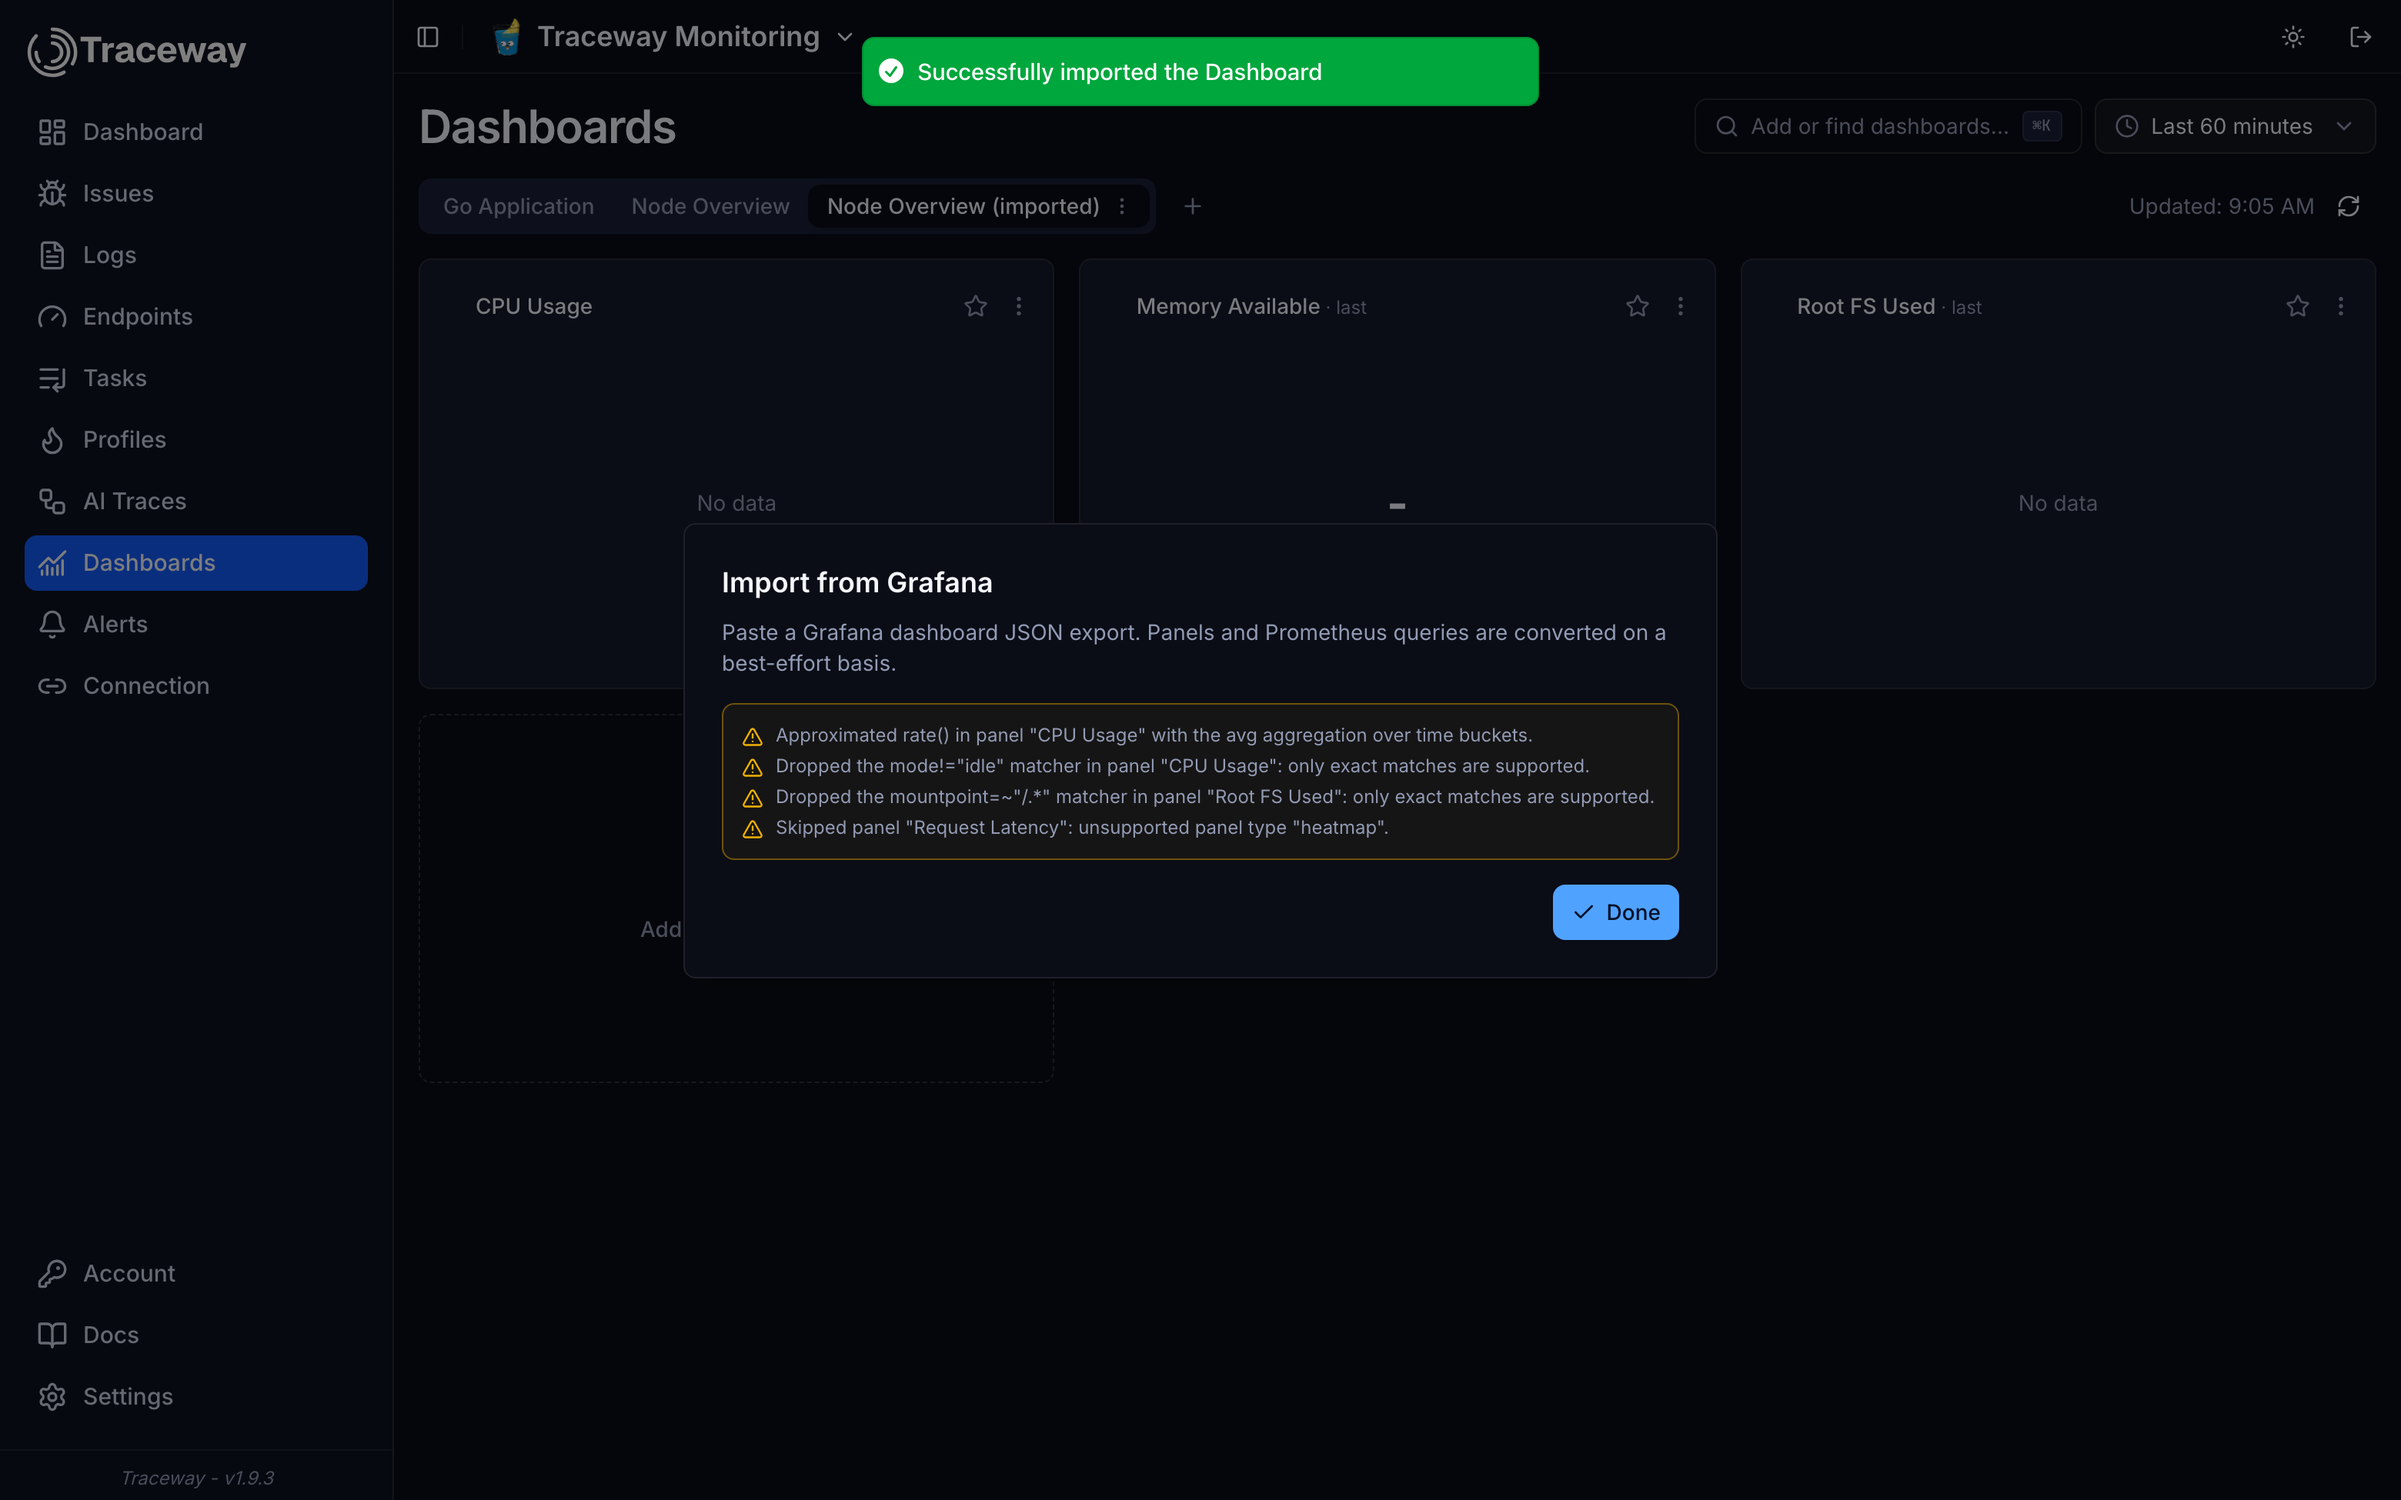
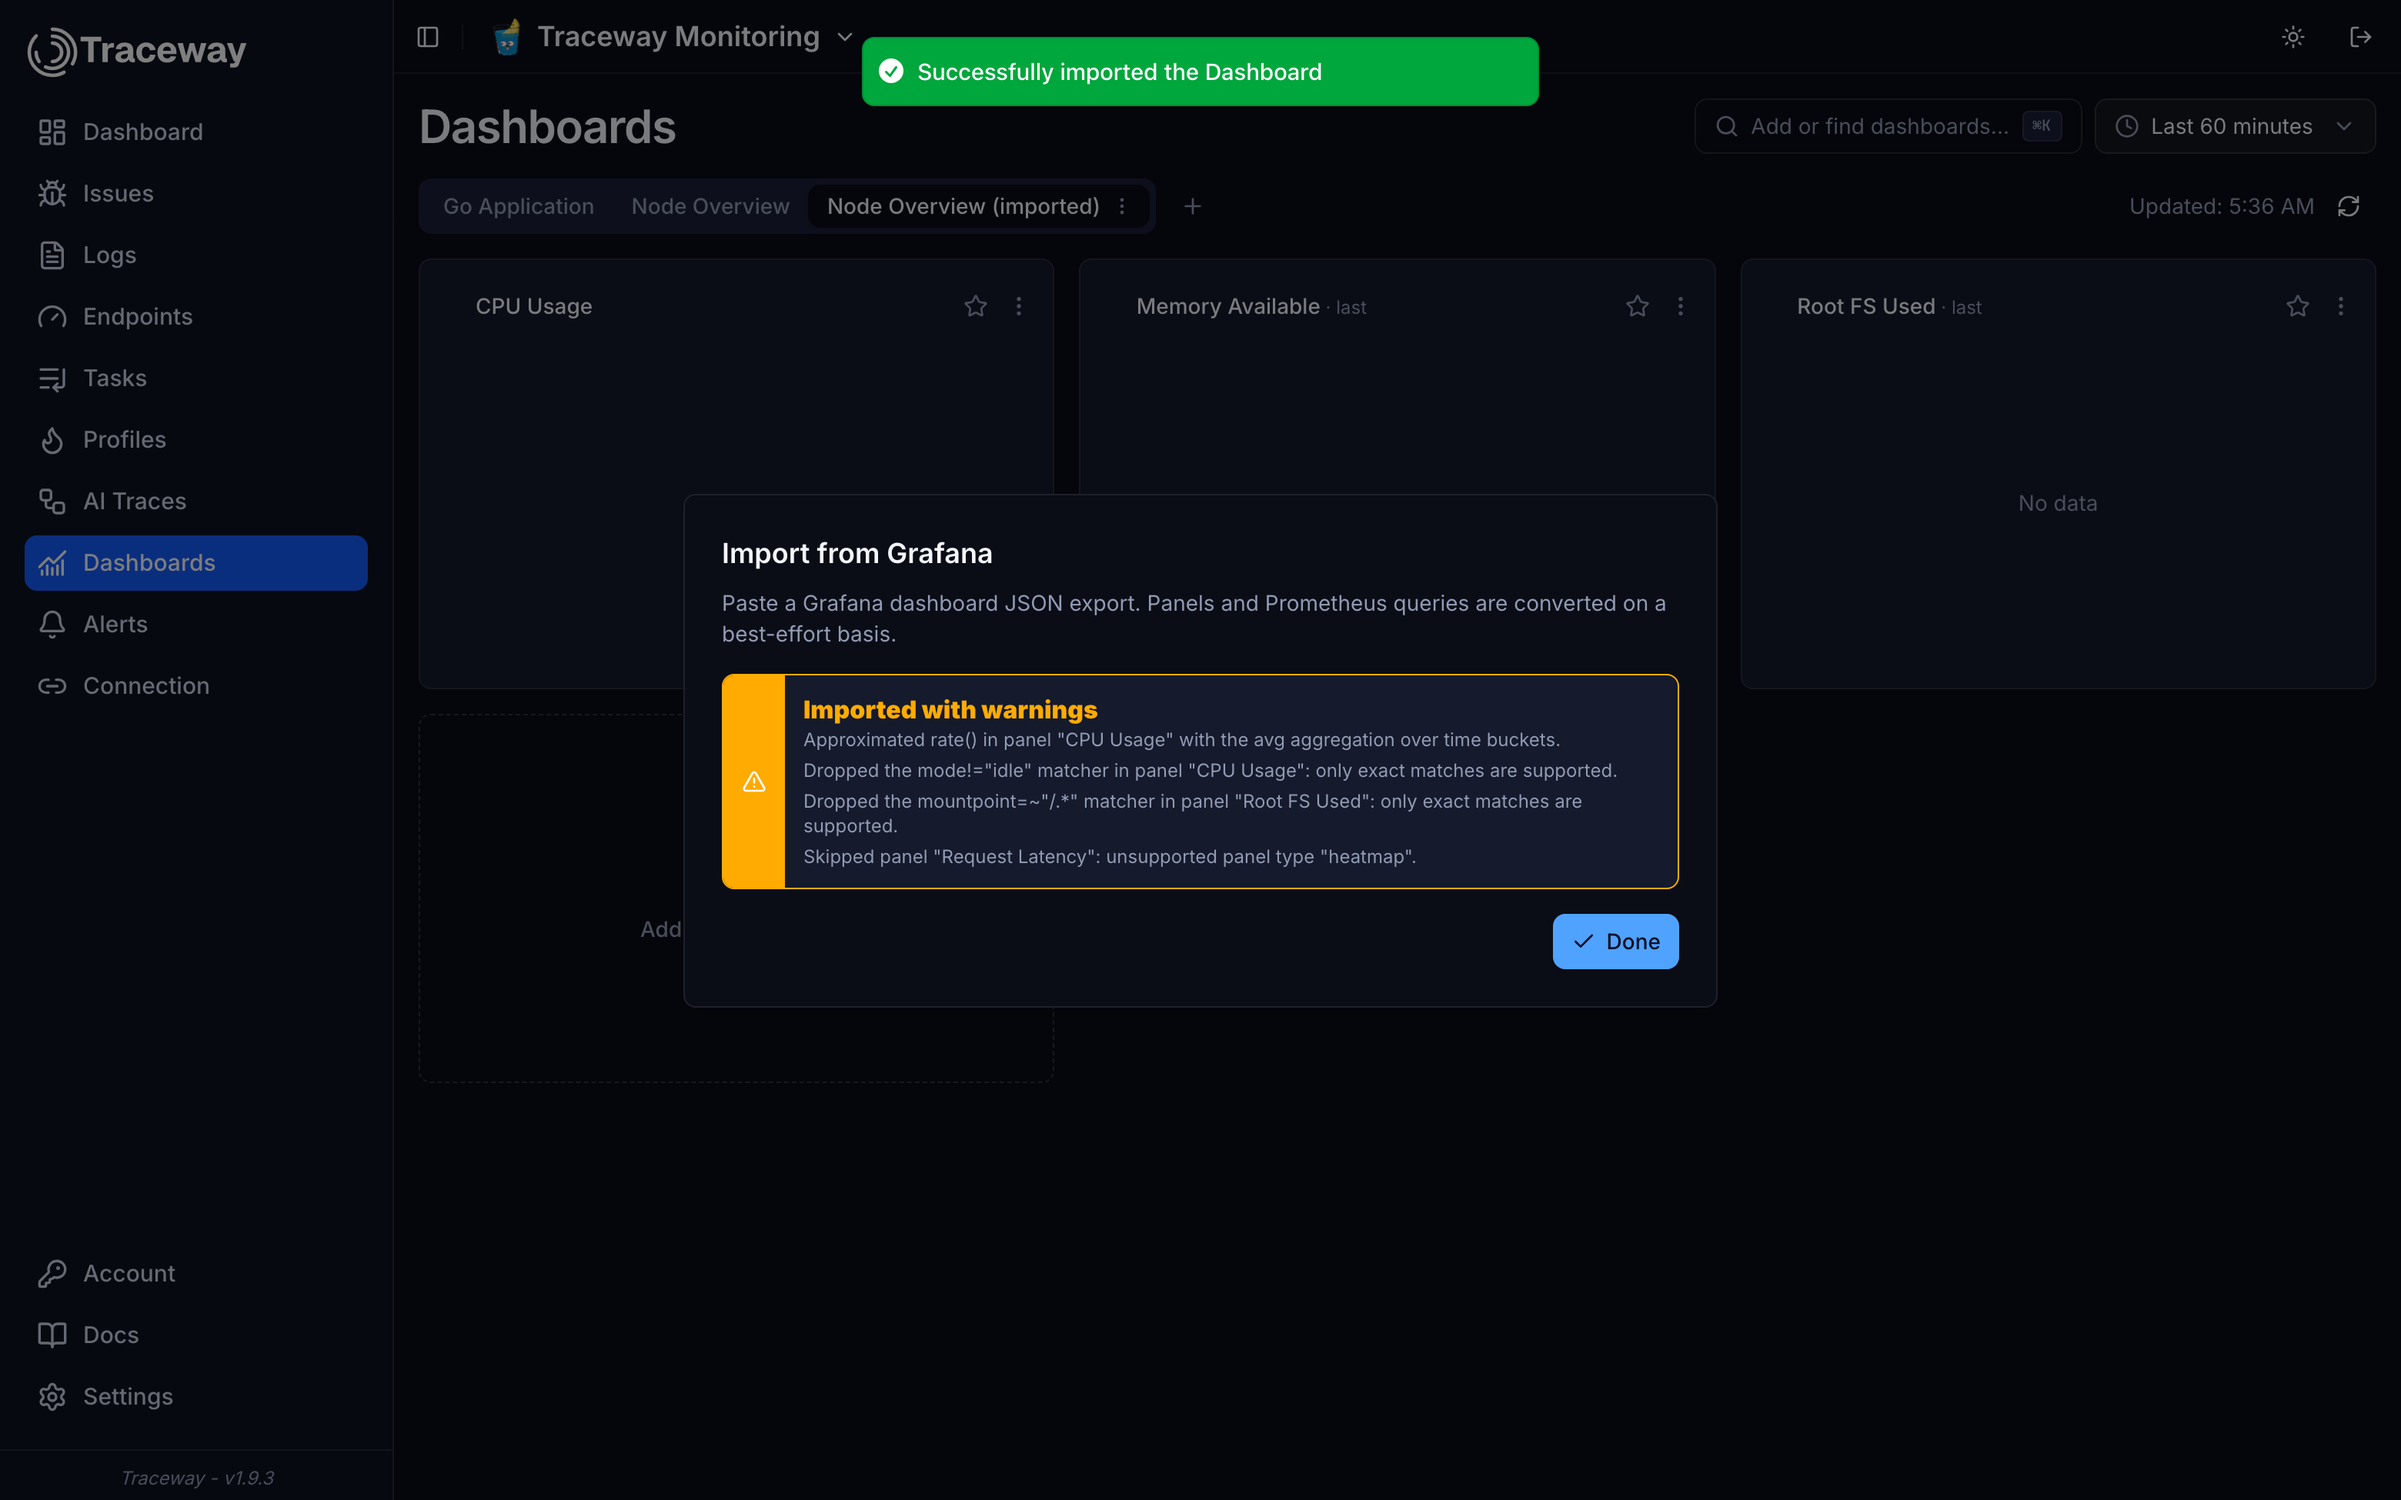
fix: better alert/callouts

Changed region(s): [[0.2798, 0.3692, 0.684, 0.6154], [0.6218, 0.5846, 0.7151, 0.6462]]

diff --git a/frontend/src/routes/dashboards/+page.svelte b/frontend/src/routes/dashboards/+page.svelte
@@ -38,10 +38,9 @@
 		Upload,
 		Share2,
 		CircleMinus,
-		TriangleAlert,
 		Search
 	} from 'lucide-svelte';
-	import { Alert, AlertDescription, AlertTitle } from '$lib/components/ui/alert';
+	import { WarningCallout } from '$lib/components/ui/warning-callout';
 	import { ErrorAlert } from '$lib/components/ui/error-alert';
 	import { ErrorDisplay } from '$lib/components/ui/error-display';
 	import * as DropdownMenu from '$lib/components/ui/dropdown-menu';
@@ -1325,16 +1324,12 @@
 				Choose which projects show "{activeDashboard?.name}" in their dashboard tabs.
 			</AlertDialog.Description>
 		</AlertDialog.Header>
-		<Alert variant="destructive">
-			<TriangleAlert class="h-4 w-4" />
-			<AlertTitle>Shared across projects</AlertTitle>
-			<AlertDescription>
-				This is a single shared dashboard. Checking a project shows it in that project's tabs.
-				Nothing is copied or overwritten, but edits made from any project apply to all of them.
-				Unchecking a project removes the dashboard from its tabs, including any of its widgets
-				starred on that project's homepage.
-			</AlertDescription>
-		</Alert>
+		<WarningCallout title="Shared across projects">
+			This is a single shared dashboard. Checking a project shows it in that project's tabs.
+			Nothing is copied or overwritten, but edits made from any project apply to all of them.
+			Unchecking a project removes the dashboard from its tabs, including any of its widgets
+			starred on that project's homepage.
+		</WarningCallout>
 		<ErrorAlert error={applyError} />
 		<div class="max-h-72 space-y-2 overflow-y-auto">
 			{#each orgProjects as project (project.id)}
@@ -1416,16 +1411,13 @@
 		</AlertDialog.Header>
 		<ErrorAlert error={grafanaError} />
 		{#if grafanaWarnings.length > 0}
-			<div
-				class="max-h-48 space-y-1 overflow-y-auto rounded-md border border-yellow-500/40 bg-yellow-500/5 p-3"
-			>
-				{#each grafanaWarnings as warning}
-					<div class="flex items-start gap-2 text-xs text-muted-foreground">
-						<TriangleAlert class="mt-0.5 h-3.5 w-3.5 shrink-0 text-yellow-500" />
-						<span>{warning}</span>
-					</div>
-				{/each}
-			</div>
+			<WarningCallout title="Imported with warnings">
+				<div class="max-h-48 space-y-1 overflow-y-auto">
+					{#each grafanaWarnings as warning}
+						<div class="text-xs">{warning}</div>
+					{/each}
+				</div>
+			</WarningCallout>
 		{:else}
 			<div class="space-y-2">
 				<textarea

diff --git a/frontend/src/routes/device/+page.svelte b/frontend/src/routes/device/+page.svelte
@@ -7,6 +7,7 @@
 	import { Label } from '$lib/components/ui/label';
 	import { Card, CardContent, CardDescription, CardHeader, CardTitle } from '$lib/components/ui/card';
 	import { Alert, AlertDescription, AlertTitle } from '$lib/components/ui/alert';
+	import { WarningCallout } from '$lib/components/ui/warning-callout';
 	import { ErrorAlert } from '$lib/components/ui/error-alert';
 	import { CircleAlert, Check, ShieldCheck } from '@lucide/svelte';
 	import { authState } from '$lib/state/auth.svelte';
@@ -214,21 +215,13 @@
 					<AlertDescription>The device login was denied. You can close this page.</AlertDescription>
 				</Alert>
 			{:else if status === 'notFound'}
-				<Alert variant="destructive">
-					<CircleAlert class="h-4 w-4" />
-					<AlertTitle>Code not found</AlertTitle>
-					<AlertDescription>
-						We couldn't find that code. Start a new login from your terminal.
-					</AlertDescription>
-				</Alert>
+				<WarningCallout variant="destructive" title="Code not found">
+					We couldn't find that code. Start a new login from your terminal.
+				</WarningCallout>
 			{:else if status === 'expired'}
-				<Alert variant="destructive">
-					<CircleAlert class="h-4 w-4" />
-					<AlertTitle>Code expired</AlertTitle>
-					<AlertDescription>
-						This login request has expired. Start a new login from your terminal.
-					</AlertDescription>
-				</Alert>
+				<WarningCallout variant="destructive" title="Code expired">
+					This login request has expired. Start a new login from your terminal.
+				</WarningCallout>
 			{:else if status === 'alreadyHandled'}
 				<Alert>
 					<CircleAlert class="h-4 w-4" />

diff --git a/frontend/src/routes/+layout.svelte b/frontend/src/routes/+layout.svelte
@@ -14,7 +14,8 @@
 	import FrameworkIcon from '$lib/components/framework-icon.svelte';
 	import * as Sidebar from '$lib/components/ui/sidebar';
 	import { Button } from '$lib/components/ui/button';
-	import { Sun, Moon, LogOut, Plus, Check, Pencil, TriangleAlert } from '@lucide/svelte';
+	import { Sun, Moon, LogOut, Plus, Check, Pencil } from '@lucide/svelte';
+	import { WarningCallout } from '$lib/components/ui/warning-callout';
 	import { onMount } from 'svelte';
 	import * as DropdownMenu from '$lib/components/ui/dropdown-menu/index.js';
 	import { ChevronDown } from 'lucide-svelte';
@@ -299,15 +300,13 @@
 			</header>
 			<main class="min-w-0 flex-1 p-4">
 				{#if timezoneMismatch}
-					<div
-						class="mb-4 flex items-start gap-2 rounded-md border border-orange-600/40 bg-orange-500/10 px-3 py-2 text-sm text-orange-700 dark:text-orange-400"
+					<WarningCallout
+						class="mb-4"
+						title="Your browser's timezone differs from the organization's"
 					>
-						<TriangleAlert class="mt-0.5 h-4 w-4 shrink-0" />
-						<span>
-							Your browser's timezone ({zoneLabel(browserZone)}) differs from the organization's
-							({zoneLabel(orgZone)}). All times are shown in the organization's timezone.
-						</span>
-					</div>
+						All times are shown in the organization's timezone ({zoneLabel(orgZone)}). Your
+						browser is on {zoneLabel(browserZone)}.
+					</WarningCallout>
 				{/if}
 				{#if CrossSiteNotificationBanner && bannerOrganizationId !== null}
 					<div class="mb-4">

diff --git a/frontend/src/lib/components/ui/warning-callout/warning-callout.svelte b/frontend/src/lib/components/ui/warning-callout/warning-callout.svelte
@@ -1,0 +1,61 @@
+<script lang="ts">
+	import type { Snippet } from 'svelte';
+	import { TriangleAlert, OctagonAlert } from 'lucide-svelte';
+	import { cn } from '$lib/utils.js';
+
+	let {
+		title,
+		variant = 'warning',
+		children,
+		action,
+		class: className
+	}: {
+		title?: string;
+		variant?: 'warning' | 'destructive';
+		children: Snippet;
+		action?: Snippet;
+		class?: string;
+	} = $props();
+
+	const destructive = $derived(variant === 'destructive');
+</script>
+
+<div
+	class={cn(
+		'overflow-hidden rounded-md border bg-card',
+		destructive ? 'border-destructive' : 'border-[#ffab01]',
+		className
+	)}
+	role="alert"
+>
+	<div class="flex items-stretch">
+		<div
+			class="flex items-center justify-center px-3 text-white {destructive
+				? 'bg-destructive'
+				: 'bg-[#ffab01]'}"
+		>
+			{#if destructive}
+				<OctagonAlert class="size-4" />
+			{:else}
+				<TriangleAlert class="size-4" />
+			{/if}
+		</div>
+		<div class="flex min-w-0 flex-1 items-center justify-between gap-3 p-3">
+			<div class="min-w-0 flex-1">
+				{#if title}
+					<div
+						class="font-black leading-tight {destructive ? 'text-destructive' : 'text-[#ffab01]'}"
+					>
+						{title}
+					</div>
+				{/if}
+				<div class="mt-0.5 text-sm text-muted-foreground">
+					{@render children()}
+				</div>
+			</div>
+			{#if action}
+				{@render action()}
+			{/if}
+		</div>
+	</div>
+</div>

diff --git a/frontend/src/lib/components/ui/warning-callout/index.ts b/frontend/src/lib/components/ui/warning-callout/index.ts
@@ -1,0 +1,1 @@
+export { default as WarningCallout } from './warning-callout.svelte';
